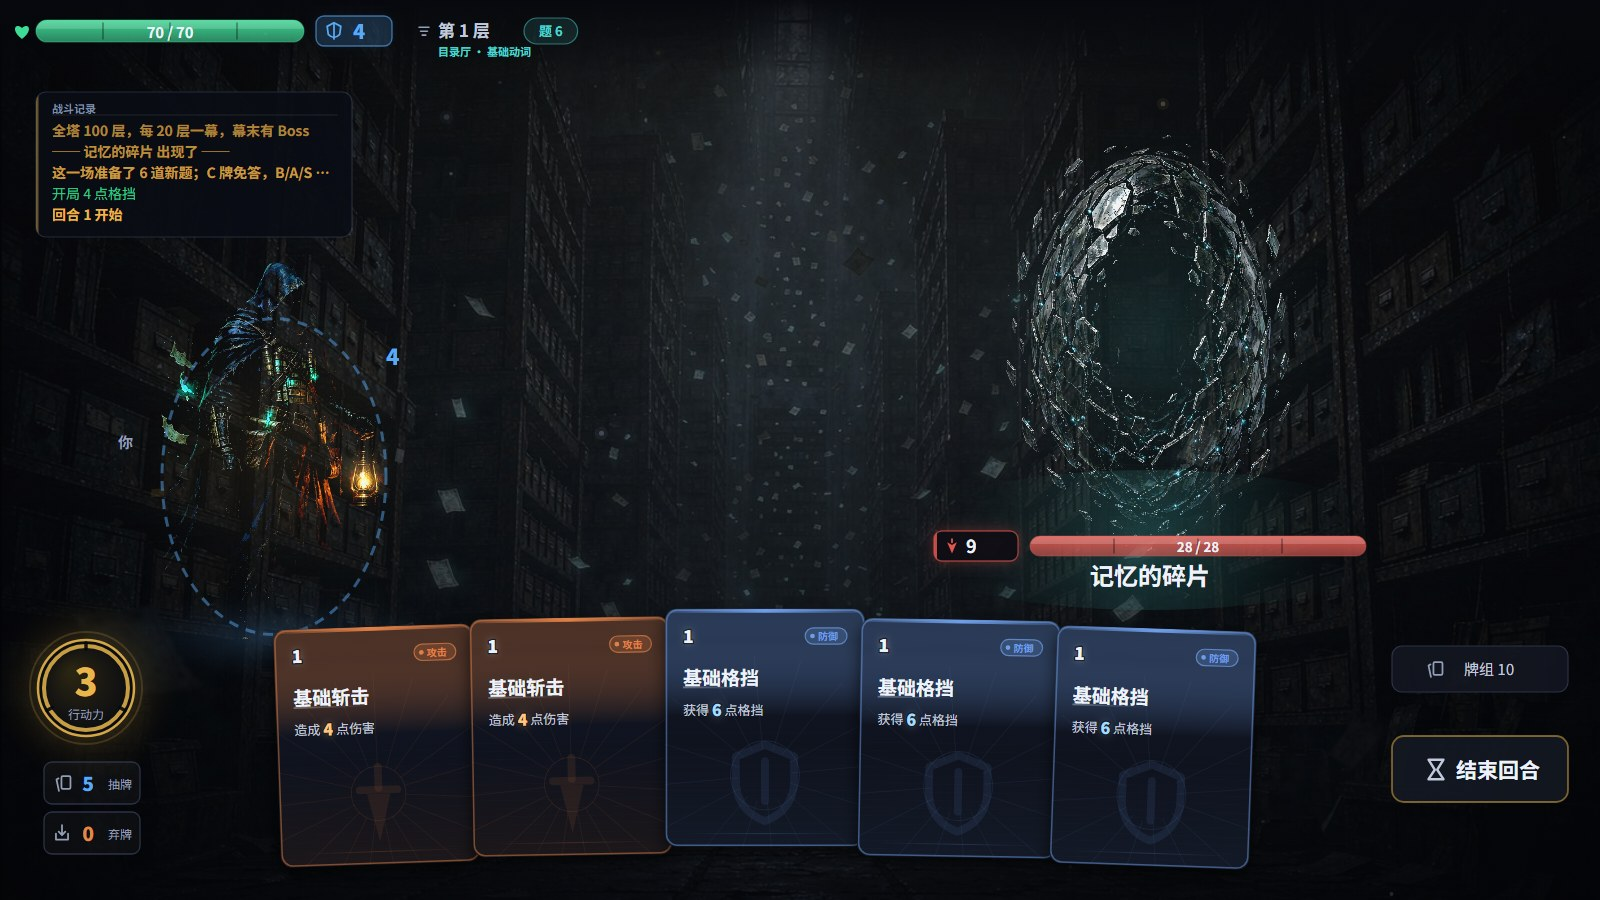
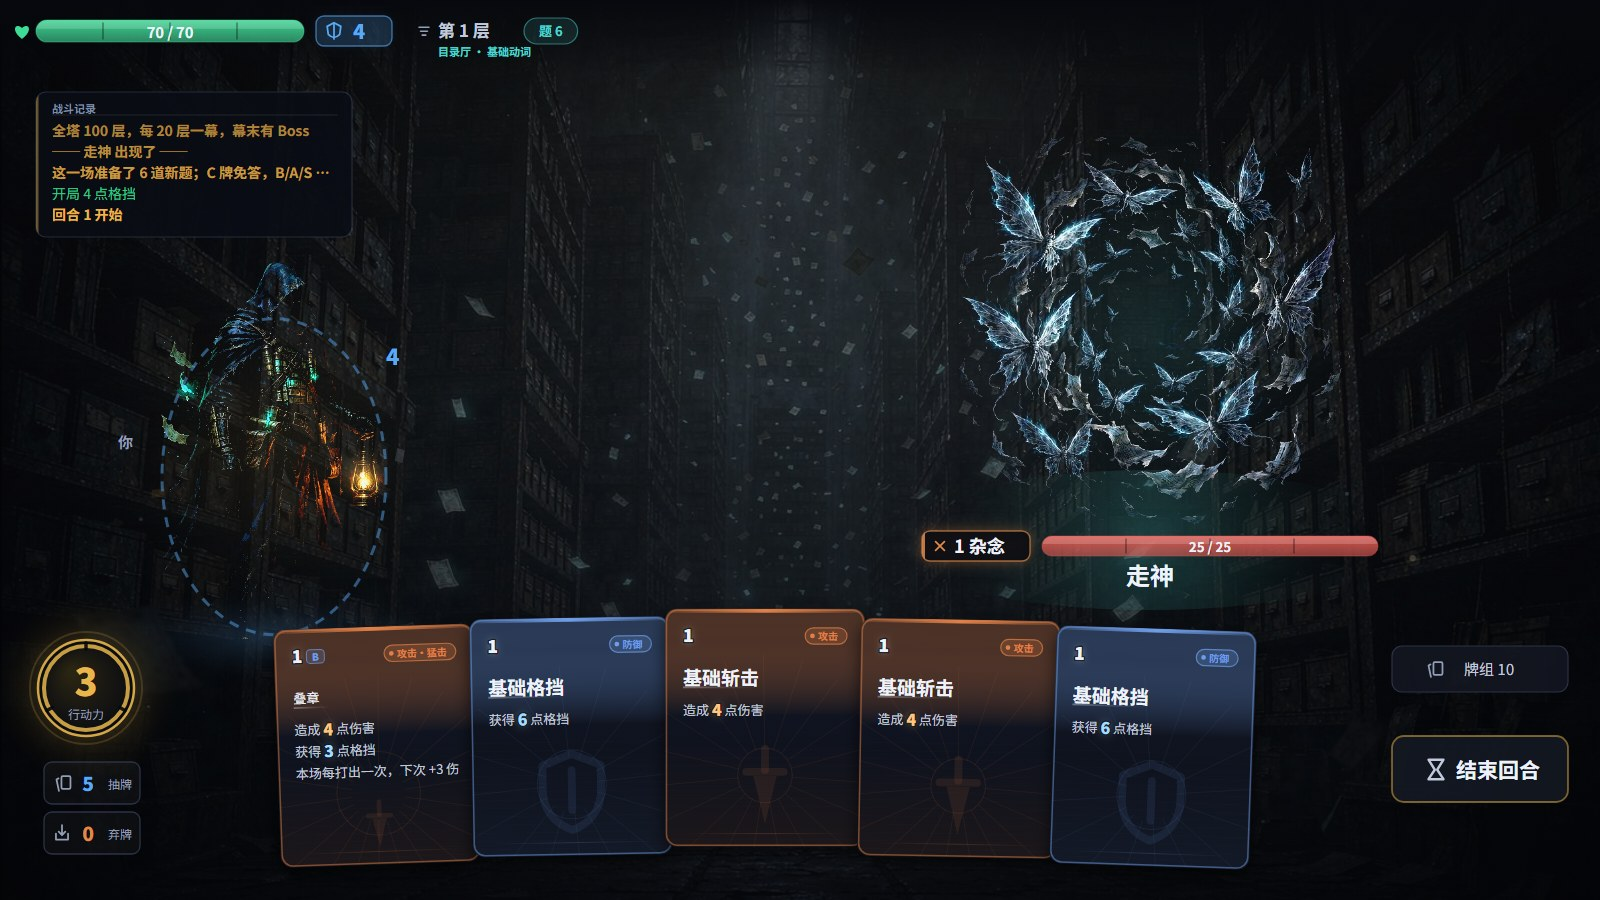
fix(ui): 联动说明并入效果行
叠章这类联动卡的说明不再作为卡底注脚，改为紧随造成伤害/获得格挡之后的效果行；同栏、同字体、同换行，增伤和基础效果读起来是一组。

diff --git a/src/gfx/ui.ts b/src/gfx/ui.ts
@@ -193,8 +193,10 @@ export interface CardOpts {
   up?: boolean;
   glow?: boolean;
   hovered?: boolean;
-  /** 卡内底部的额外说明（奖励/牌组/精炼/手牌联动用） */
+  /** 卡内底部的额外说明（精炼/奖励的数值预览用） */
   note?: string;
+  /** 联动规则：和「造成 X 点伤害」一样，写在效果行下面 */
+  rule?: string;
   /** 卡面内部底部的状态徽条（手牌用）：联动规则 / 免答，不占卡外空间 */
   badge?: string;
   /**
@@ -460,9 +462,17 @@ export function drawCard(
   // 2. 位置和大小按"效果写完还剩多少地方"算，不是写死一个高度。写死的话：
   //    一行效果的牌（猛击类）下半空出一大片，三行的牌（X 费）又会和字挤在一起。
   //    现在按剩余空间取中间、按可用高度定尺寸，一行和四行的牌都填得满。
+  // 联动说明不是卡外注脚，而是效果区里的下一行：和「造成 X 点伤害」同栏、
+  // 同字号、同一套换行。先量好行数，下面的水印才知道还剩多少地方。
+  let ruleLines: string[] = [];
+  if (opts.rule && kind !== 'junk') {
+    g.font = font(Math.round(14 * s), 400, FONT_UI);
+    ruleLines = wrapText(opts.rule, w - pad * 2).slice(0, 2);
+  }
   const rows = (per > 0 ? 1 : 0)
     + (out.blk > 0 || out.pierce || out.healRatio > 0 || out.draw > 0 ? 1 : 0)
-    + (xc ? 0.75 : 0);
+    + (xc ? 0.75 : 0)
+    + ruleLines.length;
   const textBot = by0 + nameLines.length * lh + 9 * s + rows * eh;
   const bottomY = y + h - 15 * s;
   const room = Math.max(0, bottomY - textBot);
@@ -581,6 +591,14 @@ export function drawCard(
       g.font = font(Math.round(12.5 * s), 700, FONT_UI);
       g.fillStyle = withAlpha(C.gold, 0.8);
       g.fillText('耗尽全部行动力', x + pad, ly + 1 * s);
+      ly += eh;
+    }
+    for (const ln of ruleLines) {
+      g.textAlign = 'left';
+      g.font = font(Math.round(14 * s), 400, FONT_UI);
+      g.fillStyle = bodyCol;
+      g.fillText(ln, x + pad, ly);
+      ly += eh;
     }
   }
 

diff --git a/src/scenes/overlay.ts b/src/scenes/overlay.ts
@@ -612,7 +612,7 @@ function drawReward(t: number) {
     const lift = hv ? -10 : 0;
     // 奖励预览也用同一套卡面数值；直接画 c.atk 会和入牌组后的卡面不一致。
     const st = statOf(c.id);
-    drawCard(px, cy + lift, cw, ch, c, st.atk, st.blk, { glow: hv, note: c.link?.note });
+    drawCard(px, cy + lift, cw, ch, c, st.atk, st.blk, { glow: hv, rule: c.link?.note });
     onClick(px, cy, cw, ch, () => takeCard(i), 'rewardcard');
   });
 
@@ -828,7 +828,7 @@ function drawCardPick(mode: 'up' | 'rm') {
       // `up` 只画**真的已经精炼过**的牌。精炼列表里的牌还没精炼，
       // 给它们全画上金边和 + 号会让"四张基础斩击"看起来都强化过了 ——
       // 那恰好和"只改一张"相反。
-      up: isUpgraded(o.id), glow: hv, note,
+      up: isUpgraded(o.id), glow: hv, note, rule: o.d.link?.note,
     });
     // 第几份：只在同名牌有第二份时才标，避免每张牌都挂一个没意义的 ×1。
     // 放右下角是因为卡面上半部被费用/类别/牌名/效果四行占满了。
@@ -939,7 +939,7 @@ function drawGallery(title: string, list: string[]) {
     const py = area.y + row * (ch + gapy);
     const d = defOf(id);
     const st = statOf(id);
-    drawCard(px, py, cw, ch, d, st.atk, st.blk, { up: isUpgraded(id), note: d.link?.note });
+    drawCard(px, py, cw, ch, d, st.atk, st.blk, { up: isUpgraded(id), rule: d.link?.note });
   });
   area.restore();
   overflowAffordance(area, x + 30, w - 60);

diff --git a/src/scenes/battle.ts b/src/scenes/battle.ts
@@ -1015,7 +1015,7 @@ function drawHand(t: number, dt: number) {
       // 免答的牌在右下角标一个「免」：它是这一场攒出来的状态，不标出来玩家不会知道
       // 为什么这张牌这次没问问题。联动说明则走卡内注脚，和牌面共用同一套字。
       badge: askState === 'free' ? '免答' : undefined,
-      note: card.link?.note,
+      rule: card.link?.note,
     });
     g.restore();
 
